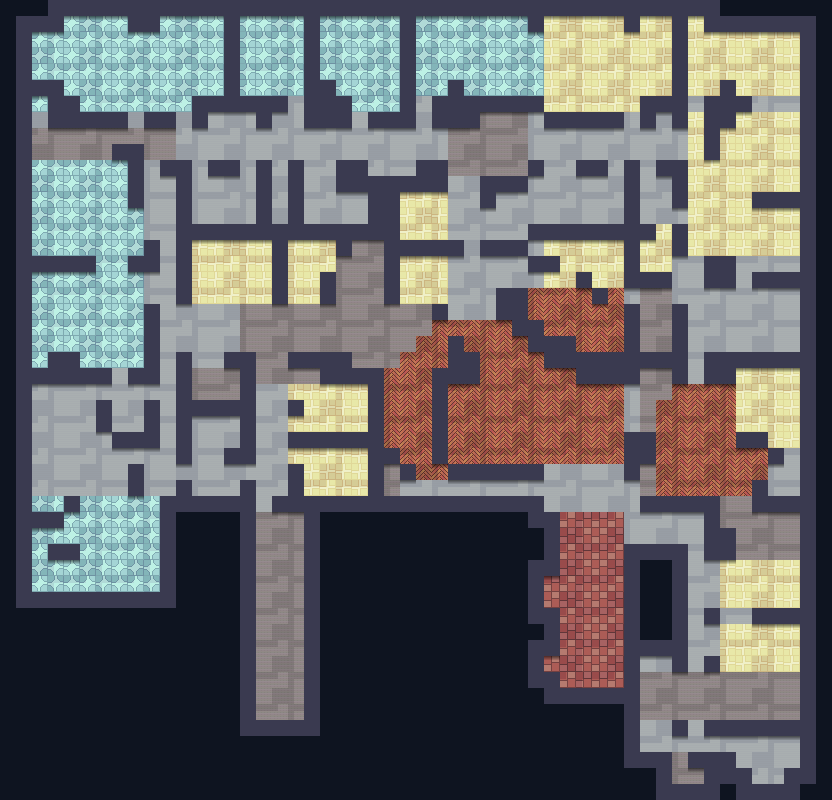
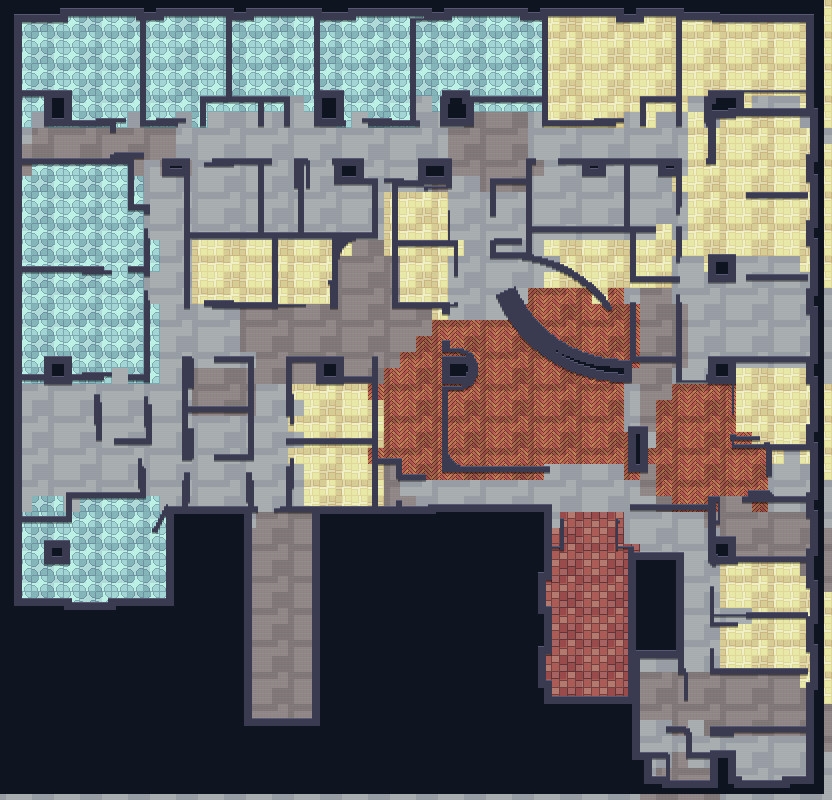
Draw patient-map walls at grid resolution, cap the zoom
Walls were tiles, so at 52cm per tile every wall became a chunky staircase and
the curved reception desk disappeared into blocks. Floors still want to be tiles
(that's the pixel-art look), but walls don't: paint them straight from the
walkable grid at 4-drawing-px (~6.5cm) resolution, over floor tiles laid
underneath. Walls now trace the actual drawing — the reception curve survives —
and each wall's top row gets a highlight plus a shadow on the floor below it for
depth.

Also cap the follow zoom at 4x (was 6x) and target 20 tiles across: at 6x the
dots were coarse enough to look mushy.

Verified by reading renderer pixels at 1904x950: zoom 4, 30x15 tiles in view,
174 distinct colours in frame.

Changed region(s): [[0.0, 0.0, 1.0, 1.0]]

diff --git a/packages/web-patient/src/main.ts b/packages/web-patient/src/main.ts
@@ -26,7 +26,9 @@ const MAP_SCALE = 0.5;
 /** 스프라이트는 맵과 같은 축척이므로 확대하지 않는다 — 확대는 카메라 줌이 담당 */
 const CHAR_SCALE = 1;
 /** 화면 가로에 타일이 대략 이 개수 보이도록 줌을 정한다 (포켓몬 골드류 타일 탑뷰) */
-const TILES_ACROSS = 14;
+const TILES_ACROSS = 20;
+/** 줌 상한 — 더 키우면 도트가 너무 굵어져 뭉툭해 보인다 */
+const MAX_ZOOM = 4;
 const TILE = 16;
 
 // 걷는 속도: 도면 1px ≈ 1.62cm, 보행 1.4m/s → 약 86 도면px/초 → 화면은 ×MAP_SCALE
@@ -205,7 +207,7 @@ class PatientScene extends Phaser.Scene {
    */
   private followZoom(): number {
     const z = Math.round(this.scale.width / (TILES_ACROSS * TILE));
-    return Math.max(2, Math.min(6, z));
+    return Math.max(2, Math.min(MAX_ZOOM, z));
   }
 
   /** 전체 보기 ↔ 따라가기 */

diff --git a/tools/build-pixel-map.py b/tools/build-pixel-map.py
@@ -31,7 +31,7 @@ import math
 import os
 import sys
 
-from PIL import Image
+from PIL import Image, ImageDraw
 
 ROOT = os.path.dirname(os.path.dirname(os.path.abspath(__file__)))
 CFG = os.path.join(ROOT, "packages", "server", "src", "config")
@@ -57,7 +57,13 @@ FLOORS = {
     "wood":      (11, 13, 3, 2),  # 헤링본 우드 — 대기공간·접수
     "concrete":  (14, 7, 3, 2),   # 회색 콘크리트 — 직원 구역
 }
-WALL_TILE = (12, 0)   # 진한 남색 솔리드
+WALL_TILE = (12, 0)   # 진한 남색 솔리드 (색만 참고 — 벽은 타일이 아니라 아래 격자로 그린다)
+# 벽 색. 타일 격자(52cm)로 찍으면 실제 벽선이 뭉툭한 계단이 되므로
+# **통행가능 격자(4 도면px ≈ 6.5cm)** 해상도로 직접 칠한다 — 도면선을 그대로 따라간다.
+WALL_RGB = (58, 58, 80)
+WALL_TOP_RGB = (86, 88, 116)   # 위쪽 모서리 하이라이트 (평면이 아니라 입체로 보이게)
+# 막힌 셀에서 이 거리(격자 셀) 안에 통행가능 셀이 있으면 '건물 안 벽', 아니면 건물 밖(void).
+WALL_REACH = 4
 
 # 존 type → 바닥 재질. category=staff_area 는 무조건 concrete (환자 동선 아님).
 FLOOR_BY_TYPE = {
@@ -137,6 +143,18 @@ class Walk:
         return mid(L), mid(Tp), mid(R) + self.cell, mid(B) + self.cell
 
 
+
+def nearest_mat(mat_of, tx, ty, tw, th, reach=3):
+    """막힌 타일 밑에 깔 바닥 재질 — 가까운 방 재질을 가져온다 (벽이 그 위를 덮는다)"""
+    for r in range(1, reach + 1):
+        for dy in range(-r, r + 1):
+            for dx in range(-r, r + 1):
+                x, y = tx + dx, ty + dy
+                if 0 <= x < tw and 0 <= y < th and mat_of[y][x]:
+                    return mat_of[y][x]
+    return None
+
+
 def main():
     assets = sys.argv[1] if len(sys.argv) > 1 else DEFAULT_ASSETS
     sheet_path = os.path.join(assets, "Interiors_free", "16x16", "Room_Builder_free_16x16.png")
@@ -214,29 +232,67 @@ def main():
     counts = {}
     for ty in range(th):
         for tx in range(tw):
+            # 바닥은 타일 격자로 (막힌 타일에도 깔아 둔다 — 위에 벽을 얇게 덮는다)
+            mat = mat_of[ty][tx] or nearest_mat(mat_of, tx, ty, tw, th) or CORRIDOR
             if floor[ty][tx]:
-                mat = mat_of[ty][tx]
                 counts[mat] = counts.get(mat, 0) + 1
-                ox, oy, pw, ph = FLOORS[mat]
-                img.alpha_composite(tile(ox + tx % pw, oy + ty % ph), (tx * T, ty * T))
-            elif any(
-                0 <= tx + dx < tw and 0 <= ty + dy < th and floor[ty + dy][tx + dx]
-                for dx, dy in ((1, 0), (-1, 0), (0, 1), (0, -1), (1, 1), (-1, -1), (1, -1), (-1, 1))
-            ):
-                img.alpha_composite(tile(*WALL_TILE), (tx * T, ty * T))
-            # 그 외(건물 밖·샤프트)는 VOID 배경 그대로
+            ox, oy, pw, ph = FLOORS[mat]
+            img.alpha_composite(tile(ox + tx % pw, oy + ty % ph), (tx * T, ty * T))
 
-    # ── 4. 벽 아래 그림자 — 평면이 아니라 입체로 보이게 ──────────────────────
+    # ── 4. 벽 — 통행가능 격자 해상도로 직접 칠한다 (타일 계단 현상 제거) ─────
+    #     막힌 셀 중 건물 안쪽(근처에 통행가능 셀이 있는 것)만 벽으로 본다.
+    cell_px = int(walk.cell * MAP_SCALE)     # 격자 한 셀이 출력에서 몇 px 인가 (2)
+    draw = ImageDraw.Draw(img)
+    reach = WALL_REACH
+    inside = [[False] * walk.cols for _ in range(walk.rows)]
+    for gy in range(walk.rows):
+        for gx in range(walk.cols):
+            if walk.grid[gy][gx] == "1":
+                continue
+            near = False
+            for dy in range(-reach, reach + 1):
+                for dx in range(-reach, reach + 1):
+                    y, x = gy + dy, gx + dx
+                    if 0 <= x < walk.cols and 0 <= y < walk.rows and walk.grid[y][x] == "1":
+                        near = True
+                        break
+                if near:
+                    break
+            inside[gy][gx] = near
+
+    void_cells = 0
+    for gy in range(walk.rows):
+        for gx in range(walk.cols):
+            if walk.grid[gy][gx] == "1":
+                continue
+            x0 = gx * cell_px
+            y0 = gy * cell_px
+            if inside[gy][gx]:
+                # 위쪽이 벽이 아니면 그 줄만 밝게 — 벽 윗면처럼 보이게
+                top = gy == 0 or not inside[gy - 1][gx] or walk.grid[gy - 1][gx] == "1"
+                draw.rectangle([x0, y0, x0 + cell_px - 1, y0 + cell_px - 1], fill=WALL_RGB)
+                if top:
+                    draw.rectangle([x0, y0, x0 + cell_px - 1, y0], fill=WALL_TOP_RGB)
+            else:
+                void_cells += 1
+                draw.rectangle([x0, y0, x0 + cell_px - 1, y0 + cell_px - 1], fill=VOID_RGB)
+
+    # 벽 아래 그림자 — 바닥으로 내려가는 두 줄을 어둡게
     px = img.load()
-    for ty in range(th - 1):
-        for tx in range(tw):
-            if not floor[ty][tx] and floor[ty + 1][tx]:
-                for i in range(T):
-                    for d in range(4):
-                        x, y = tx * T + i, (ty + 1) * T + d
-                        r, g, b, a = px[x, y]
-                        f = 0.5 + d * 0.12
-                        px[x, y] = (int(r * f), int(g * f), int(b * f), a)
+    for gy in range(walk.rows - 1):
+        for gx in range(walk.cols):
+            if walk.grid[gy][gx] == "1" or not inside[gy][gx]:
+                continue
+            if walk.grid[gy + 1][gx] != "1":
+                continue
+            for i in range(cell_px):
+                for d in range(cell_px):
+                    x, y = gx * cell_px + i, (gy + 1) * cell_px + d
+                    if x >= img.width or y >= img.height:
+                        continue
+                    r, g, b, a = px[x, y]
+                    f = 0.55 + d * 0.15
+                    px[x, y] = (int(r * f), int(g * f), int(b * f), a)
 
     # 타일 격자 크기 그대로 저장한다 (도면 크기로 자르면 마지막 타일이 잘린다)
     img.save(OUT)
